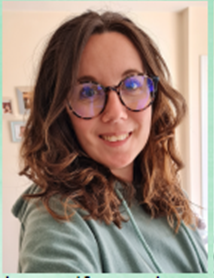
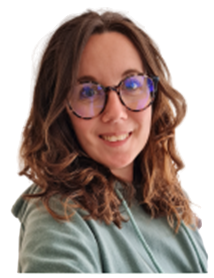
Updated profile images

diff --git a/style.css b/style.css
@@ -768,10 +768,11 @@ Profile Cards
 }
 
 .profile img {
-    width: 140px;
-    height: 140px;
+    width: 160px;
+    height: 160px;
     object-fit: cover;
     border-radius: 50%;
+    object-position: center 10%;
 }
 
 .profile h2 {
